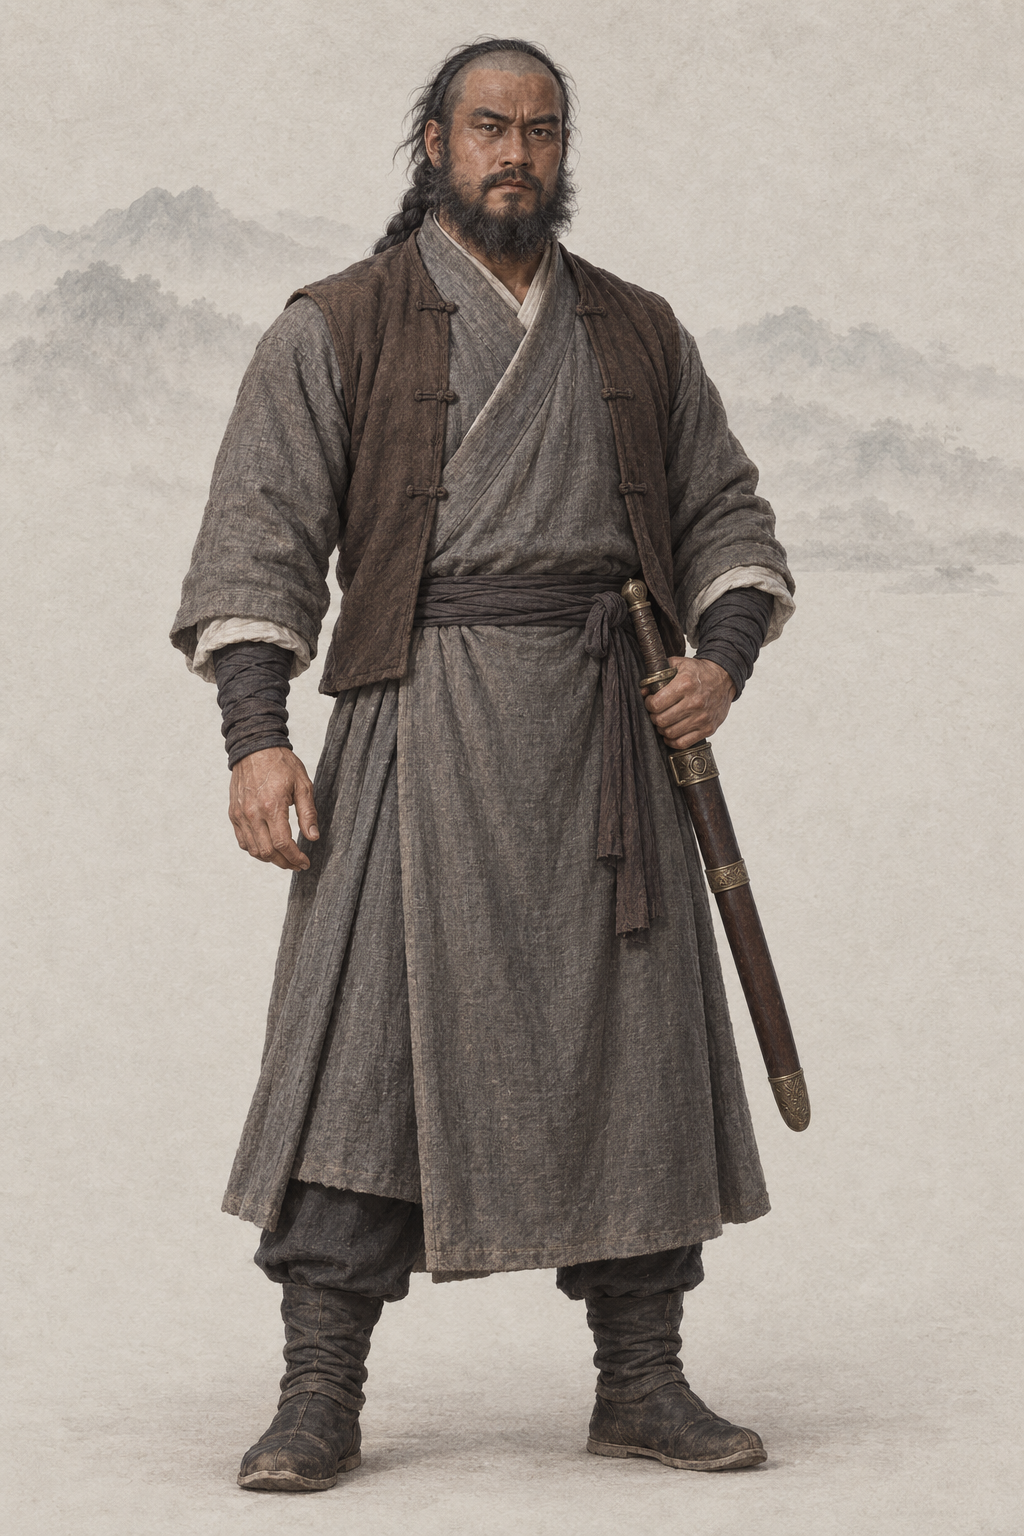
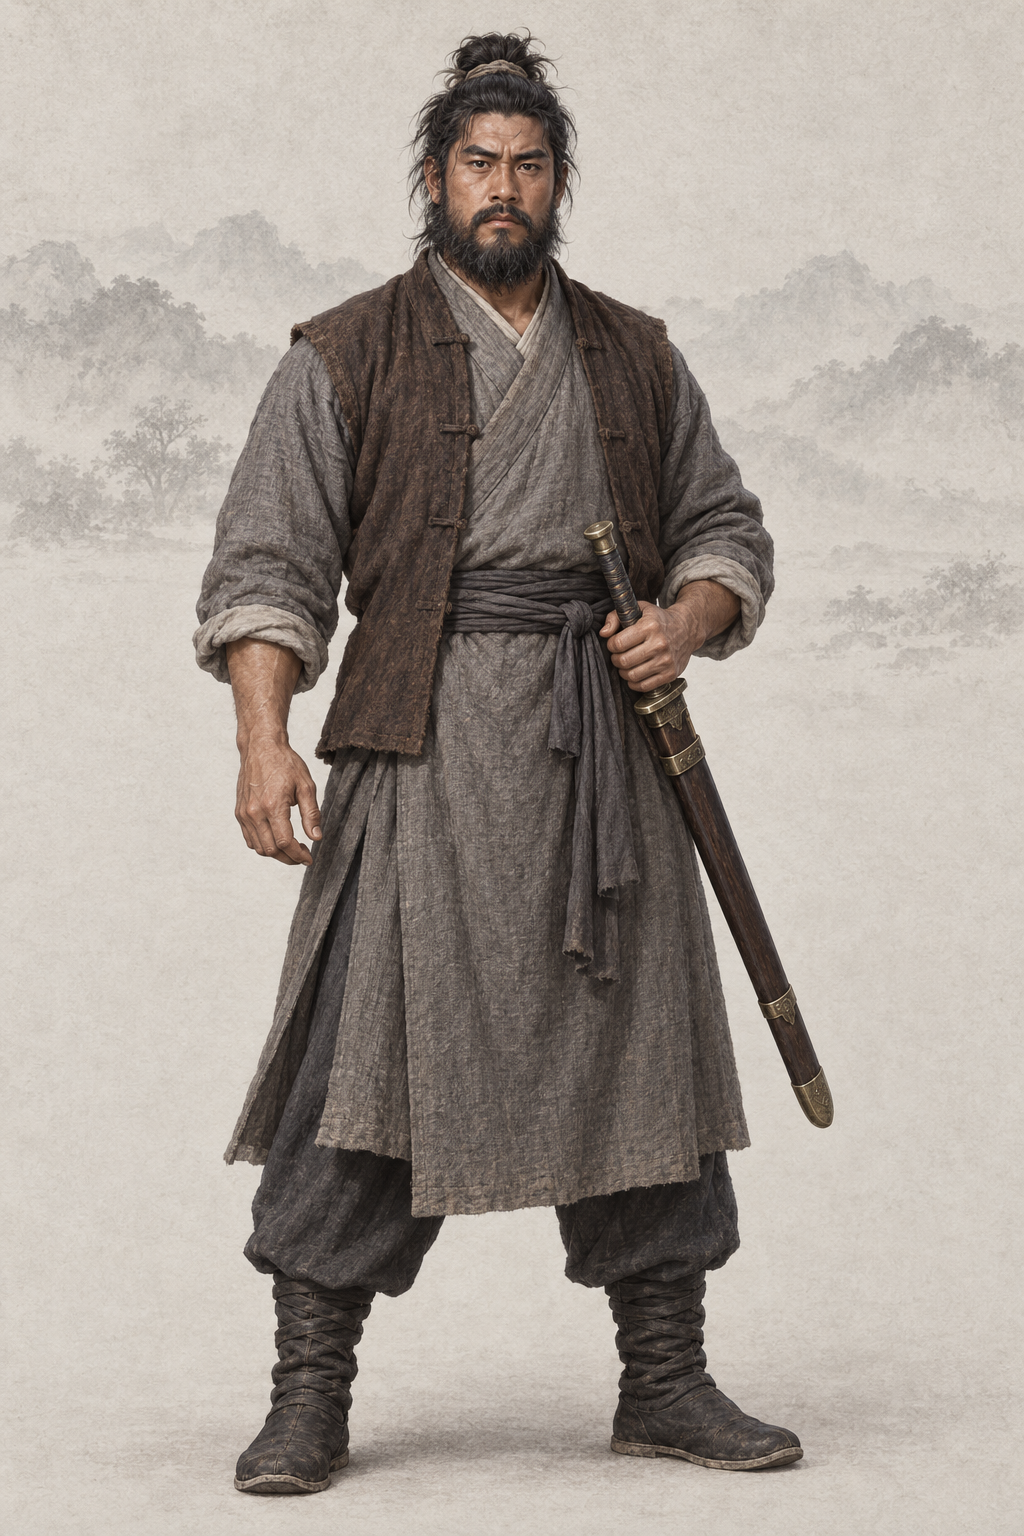
assets(character): por_npc_huyidao__ch13_prime_memory_base 胡一刀（codex · AR-32 补记修改 B：1991 台视《雪山飞狐》（含飞狐外传情节；作者「取最经典的一版」，新浪 2007 称其为公认最经典版本）；孟飞一人分饰胡一刀、胡斐（剧照为胡斐造型，只借同一演员的脸型与气质） 剧照 + 基线）
作者 10-02：飞狐 / 雪山取最经典的一版（1991 台视版，胡一刀由孟飞饰演），下载剧照后重出；作者 17:20 定发式改回原著「头发却不结辫」（束发、不剃额）。上传顺序：第 1–2 张为 1991 台视《雪山飞狐》孟飞剧照（hufei_1991_mengfei_sohu2022.jpg、hufei_1991_mengfei_sohu2021.jpg 只取左半剧照；该版孟飞一人分饰胡一刀、胡斐，图为胡斐造型），最后两张为同性别基线；r2；提示词写回，旧段留作历史。
作者 17:20 答复：发式改回原著（束发不结辫、不剃额），r1 的剃额留辫版作废

diff --git a/assets/default/prompts/characters/ch13-feihu/npc_huyidao.md b/assets/default/prompts/characters/ch13-feihu/npc_huyidao.md
@@ -16,7 +16,7 @@ references:
 status: redo
 realism_revision: user_identity_pose_20261001
 codex_prompt_rev: 2026-10-02
-redo_reason: 作者 10-02：飞狐取最经典的 1991 台视版剧照重出（孟飞一人分饰胡一刀、胡斐）；按任务说明改清制剃额留辫（原著写胡一刀「头发却不结辫」，待作者确认）；之后作雪山胡一刀的同一人锚点
+redo_reason: 作者 10-02：飞狐取最经典的 1991 台视版剧照重出（孟飞一人分饰胡一刀、胡斐）；作者 17:20 定发式按原著「头发却不结辫」（束发、不剃额）；作雪山胡一刀的同一人锚点
 reference_upload:
 - .agents/coord/imagegen-reference/identity-20261002/feihu/hufei_1991_mengfei_sohu2022.jpg
 - .agents/coord/imagegen-reference/identity-20261002/feihu/hufei_1991_mengfei_sohu2021.jpg
@@ -33,7 +33,7 @@ classic_ref:
 
 ## Gemini 提示词
 
-> 2026-10-02 AR-32 补记修改 B（9 号出图员，codex exec · image_gen）：作者 10-02：飞狐 / 雪山取最经典的一版（1991 台视版，胡一刀由孟飞饰演），下载剧照后重出；清代男主按清制剃额留辫（AR-32，任务说明指定）。上一版本机无剧照，只用文字。上传顺序：第 1–2 张为 1991 台视《雪山飞狐》孟飞剧照（hufei_1991_mengfei_sohu2022.jpg、hufei_1991_mengfei_sohu2021.jpg 只取左半剧照；该版孟飞一人分饰胡一刀、胡斐，图为胡斐造型），最后两张为同性别画风基线（缩小版 JPEG）。参考图只借造型、气质与面部特征，画面按项目画风重绘、不复制照片。上一版保留在下一节作历史。
+> 2026-10-02 AR-32 补记修改 B（9 号出图员，codex exec · image_gen）：作者 10-02：飞狐 / 雪山取最经典的一版（1991 台视版，胡一刀由孟飞饰演），下载剧照后重出；作者 17:20 定发式改回原著「头发却不结辫」（束发、不剃额）。上传顺序：第 1–2 张为 1991 台视《雪山飞狐》孟飞剧照（hufei_1991_mengfei_sohu2022.jpg、hufei_1991_mengfei_sohu2021.jpg 只取左半剧照；该版孟飞一人分饰胡一刀、胡斐，图为胡斐造型），最后两张为同性别画风基线（缩小版 JPEG）。参考图只借造型、气质与面部特征，画面按项目画风重绘、不复制照片。上一版保留在下一节作历史。
 
 ```text
 生成一张 2:3 竖幅全身人物立绘：单人、单一视角、完整全身——头顶、双手、双脚和手中器物的两端都在画面内，四周留出自然空白；人物站姿自然，身体基本朝向正面，头部端正（不歪头、不仰不俯），镜头平视。
@@ -44,10 +44,10 @@ classic_ref:
 【年龄与体态】三十多岁的男人，身材魁伟厚实，胸背宽阔，四肢粗壮，手掌粗大，约七个半头身。
 【经典造型】要一眼认出是辽东大侠胡一刀——黑漆般的脸、满脸钢针似的浓髯、腰挎单刀，乍看凶恶如门神，眼神却豪迈坦荡、透着亲切；粗豪而有英雄气。
 【面容】照剧照里那张脸的骨相（同一位演员）来画，再按原著加上：一张黝黑如漆的脸（很深的黑褐肤色）；满脸浓密粗硬的络腮胡，从鬓角一直连到下巴和喉头，胡须根根支棱；粗黑的浓眉，一双大眼睛圆睁、目光如电；鼻头宽实，阔口厚唇；乍看相貌凶恶粗豪，像庙门上的门神，细看眼神里却有坦荡、豪迈和一点亲切。
-【发式】清代男子发式（按本作清代男主的统一规定）：前额剃过，但多日未修、长出一层青黑短茬；后脑一条粗而蓬松、编得很随便的黑辫子垂在背后；鬓发浓密蓬乱，几绺垂在额边。不戴帽子。
+【发式】按原著「头发却不结辫」：前额不剃，也不结辫子——浓密粗硬的黑发蓬蓬松松地堆在头顶，只用一根旧布条随手束住，几绺乱发垂在额前和鬓边；不戴帽子。
 【服饰】灰褐色厚棉长袍（清式圆领大襟右衽），外罩深褐色对襟短褂，宽布带束腰，深色长裤，粗实的皮靴。
 【道具与姿态】左腰挂一柄朴素的中式单刀，微弧刀身完全收在暗棕色长鞘里；左手扶着鞘口，右手松开垂下。开胸站立，双足牢靠，豪迈大度。
-【不要】画面里不要任何文字、题款、印章、签名、水印、边框、分格或多视图；不要第二个人；不要幼态（童颜、娃娃脸、婴儿肥、儿童或少年身材、大头小身）；不要塑料感皮肤、磨皮美颜、网红脸（尖下巴大眼高鼻的模板脸）、过度对称、浓妆、偶像式打光、蜡像感；不要照片质感，不要像剧照照片、照片修图或拼贴，不要照搬剧照的背景、光影、构图和姿势；不要三维渲染或动漫大眼；不要歪头、斜镜头；不要多指、缺指（设定的伤残除外）、手与器物粘连或悬空；衣襟必须右衽（穿着者的左襟压在右襟上），不要左衽（设定为少数民族服制的除外），不要水平镜像；不要现代物品、发光特效、法阵或能量光。不要英俊型男、修剪整齐的短须；不要白净或只是微黑的皮肤；不要白毛皮帽、白衣或任何帽子；不要长剑、两把兵器、出鞘的刀；不要鬼怪化；不要日式服饰。
+【不要】画面里不要任何文字、题款、印章、签名、水印、边框、分格或多视图；不要第二个人；不要幼态（童颜、娃娃脸、婴儿肥、儿童或少年身材、大头小身）；不要塑料感皮肤、磨皮美颜、网红脸（尖下巴大眼高鼻的模板脸）、过度对称、浓妆、偶像式打光、蜡像感；不要照片质感，不要像剧照照片、照片修图或拼贴，不要照搬剧照的背景、光影、构图和姿势；不要三维渲染或动漫大眼；不要歪头、斜镜头；不要多指、缺指（设定的伤残除外）、手与器物粘连或悬空；衣襟必须右衽（穿着者的左襟压在右襟上），不要左衽（设定为少数民族服制的除外），不要水平镜像；不要现代物品、发光特效、法阵或能量光。不要剃额、不要辫子；不要英俊型男、修剪整齐的短须；不要白净或只是微黑的皮肤；不要白毛皮帽、白衣或任何帽子；不要长剑、两把兵器、出鞘的刀；不要鬼怪化；不要日式服饰。
 【画风基线】随提示词上传的参考图里，最后两张是本项目的立绘画风基线：只参考它们的画风、用色、光线、质感和暖浅灰纸底加淡水墨的背景处理，整体画风必须与它们一致——精细写实的数字手绘插画，不是油画，不要厚涂笔触和画布纹理。基线图只取画风，不取长相：不要照搬基线图里人物的长相、年龄、发型、服饰和姿势。
 ```
 
